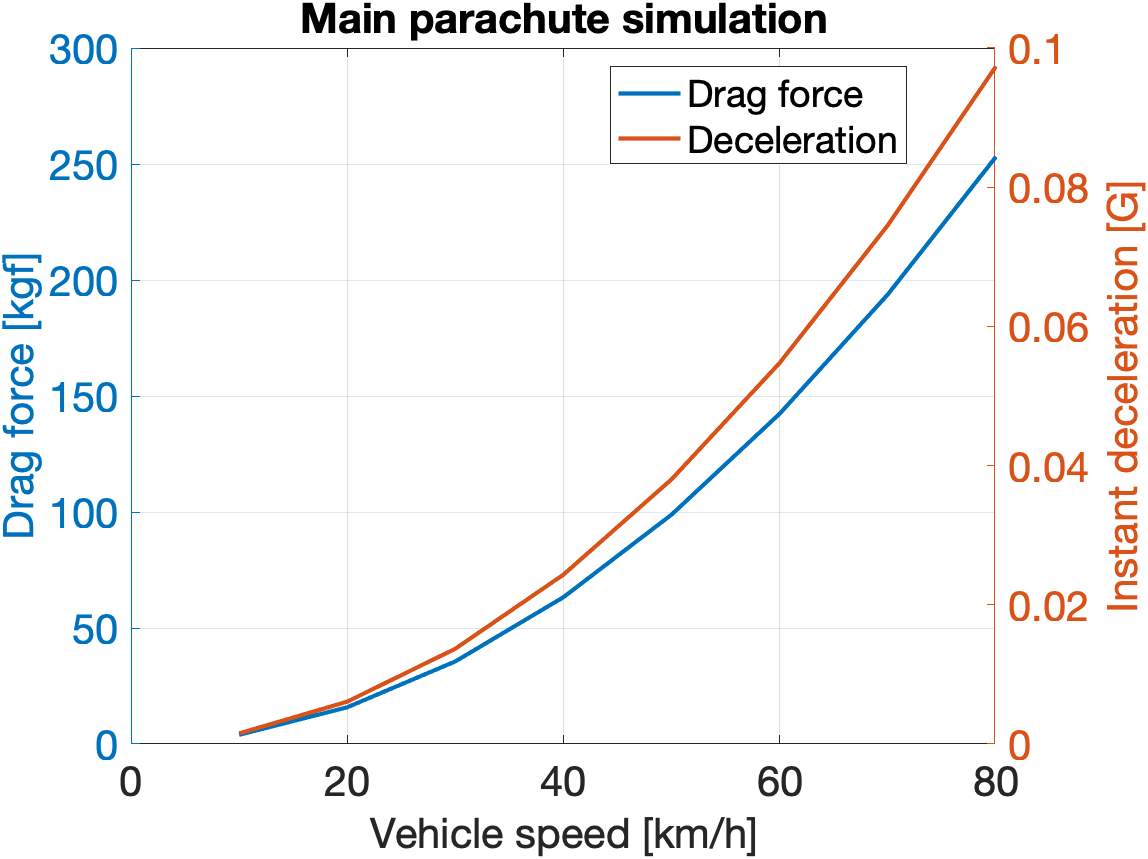
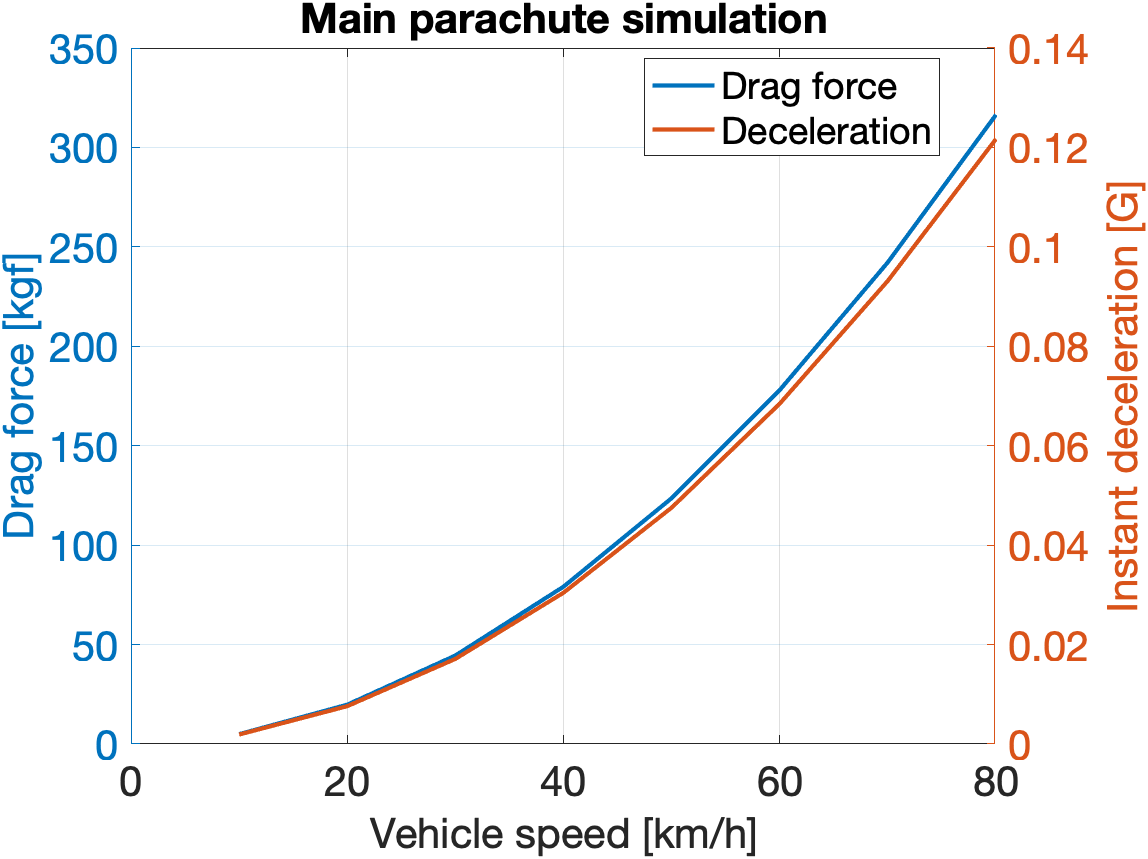
update

diff --git a/README.md b/README.md
@@ -1,4 +1,20 @@
 # N4-recovery-simulation
 
+## Main chute deployment at 500m
+```
+Velocity at the main chute deployment: 79.092000 [km/h]
+Generated drag force: 309.289590 [kgf]
+Instant deceleration by drag: 17.707483 [G]
+```
 
+
+## Vehicle testing simulation
+The max deceleration is about 0.12G.
 ![](image/vehicle-test.png)
+
+
+
+
+
+
+
